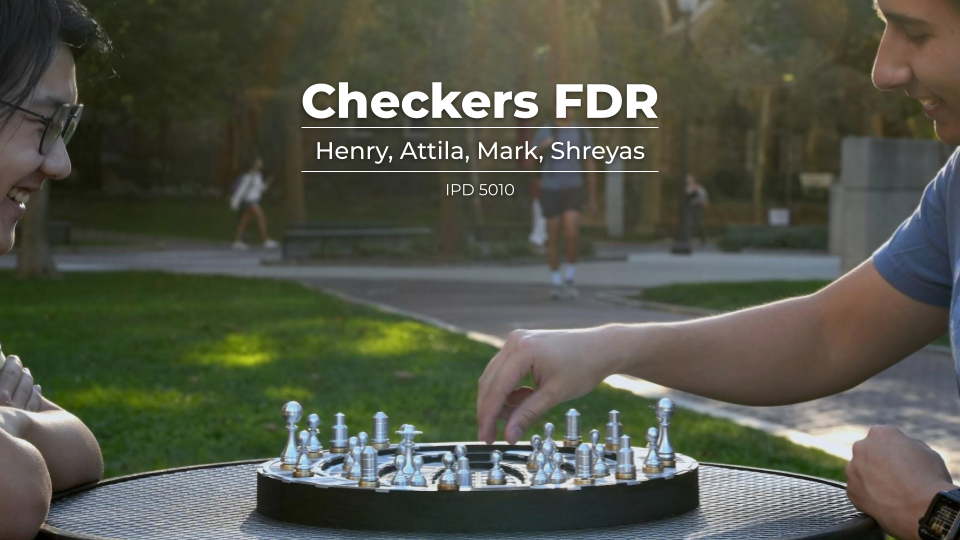
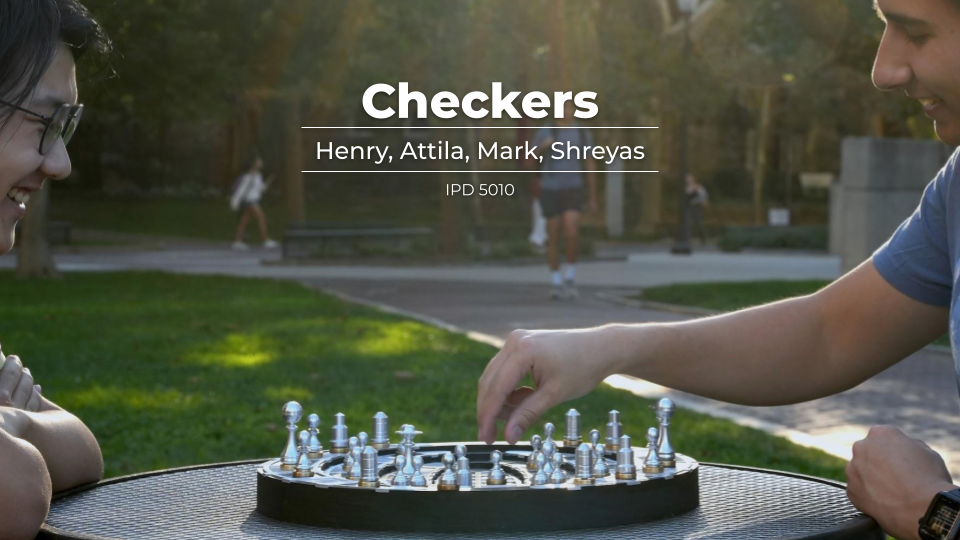
Polish hero collage interaction

Changed region(s): [[0.3125, 0.1481, 0.6875, 0.237]]

diff --git a/components/hero/PhotoWall.tsx b/components/hero/PhotoWall.tsx
@@ -2,6 +2,7 @@
 
 import Image from "next/image";
 import { useEffect, useRef, useState } from "react";
+import type { MouseEvent } from "react";
 import { AnimatePresence, motion, useReducedMotion } from "motion/react";
 import type { HeroTile } from "@/content/types";
 import { imageFill } from "@/lib/image";
@@ -15,7 +16,7 @@ const SLOT_PREF: Orient[] = [
   "portrait", // s1
   "square", // s2
   "landscape", // s3
-  "square", // s4
+  "landscape", // s4
   "landscape", // s5
   "landscape", // s6
   "portrait", // s7
@@ -49,7 +50,23 @@ export function PhotoWall({ tiles }: { tiles: HeroTile[] }) {
   const reduce = useReducedMotion();
   const [assignment, setAssignment] = useState<number[]>(() => initialAssignment(tiles));
   const [visibleCount, setVisibleCount] = useState(SLOT_COUNT);
+  const [activeSlot, setActiveSlot] = useState<number | null>(null);
   const tick = useRef(0);
+
+  const handlePointerMove = (event: MouseEvent<HTMLDivElement>) => {
+    if (reduce) return;
+
+    const rect = event.currentTarget.getBoundingClientRect();
+    const x = (event.clientX - rect.left) / rect.width;
+    const y = (event.clientY - rect.top) / rect.height;
+    const cropX = 50 + (x - 0.5) * 10;
+    const cropY = 50 + (y - 0.5) * 10;
+
+    event.currentTarget.style.setProperty("--crop-x", `${cropX}%`);
+    event.currentTarget.style.setProperty("--crop-y", `${cropY}%`);
+    event.currentTarget.style.setProperty("--pointer-x", `${x * 100}%`);
+    event.currentTarget.style.setProperty("--pointer-y", `${y * 100}%`);
+  };
 
   // Track how many slots are visible at the current breakpoint so we
   // only cycle photos into tiles the viewer can actually see.
@@ -92,19 +109,30 @@ export function PhotoWall({ tiles }: { tiles: HeroTile[] }) {
   }, [reduce, tiles, visibleCount]);
 
   return (
-    <div className="photo-wall">
+    <div className={activeSlot === null ? "photo-wall" : "photo-wall is-hovering"}>
       {Array.from({ length: SLOT_COUNT }, (_, slot) => {
         const tile = tiles[assignment[slot]];
         return (
           <div
             key={slot}
-            className={`wall-slot wall-slot-${slot}`}
+            className={`wall-slot wall-slot-${slot}${
+              activeSlot === slot ? " is-active" : ""
+            }${activeSlot !== null && activeSlot !== slot ? " is-neighbor" : ""}`}
             style={{ gridArea: `s${slot}` }}
+            onMouseEnter={() => setActiveSlot(slot)}
+            onMouseLeave={(event) => {
+              setActiveSlot(null);
+              event.currentTarget.style.removeProperty("--crop-x");
+              event.currentTarget.style.removeProperty("--crop-y");
+              event.currentTarget.style.removeProperty("--pointer-x");
+              event.currentTarget.style.removeProperty("--pointer-y");
+            }}
+            onMouseMove={handlePointerMove}
           >
             <AnimatePresence initial={false}>
               <motion.div
                 key={tile.id}
-                className="absolute inset-0"
+                className="wall-slot-media absolute inset-0"
                 initial={reduce ? false : { opacity: 0, scale: 1.06 }}
                 animate={{ opacity: 1, scale: 1 }}
                 exit={{ opacity: 0 }}
@@ -117,7 +145,7 @@ export function PhotoWall({ tiles }: { tiles: HeroTile[] }) {
                   {...imageFill(tile)}
                   fill
                   sizes="(max-width: 640px) 50vw, (max-width: 1024px) 50vw, 50vw"
-                  className="object-cover"
+                  className="wall-slot-image object-cover"
                   priority={slot < 6}
                 />
                 {tile.accent && (

diff --git a/app/globals.css b/app/globals.css
@@ -63,6 +63,7 @@ body {
   gap: 9px;
   width: 100%;
   height: 100%;
+  isolation: isolate;
   /* mobile: 2 cols */
   grid-template-columns: repeat(2, 1fr);
   grid-template-rows: repeat(6, 1fr);
@@ -105,10 +106,74 @@ body {
 }
 
 .wall-slot {
+  --crop-x: 50%;
+  --crop-y: 50%;
+  --pointer-x: 50%;
+  --pointer-y: 50%;
   position: relative;
   overflow: hidden;
   border-radius: 12px;
   background-color: var(--color-paper-2);
+  transform: translateZ(0) scale(1);
+  transform-origin: center;
+  transition:
+    transform 650ms cubic-bezier(0.22, 1, 0.36, 1),
+    box-shadow 650ms cubic-bezier(0.22, 1, 0.36, 1),
+    filter 650ms cubic-bezier(0.22, 1, 0.36, 1);
+  will-change: transform;
+}
+
+.wall-slot::after {
+  content: "";
+  position: absolute;
+  inset: 0;
+  z-index: 2;
+  pointer-events: none;
+  border-radius: inherit;
+  opacity: 0;
+  background:
+    radial-gradient(
+      circle at var(--pointer-x) var(--pointer-y),
+      rgb(255 255 255 / 0.18),
+      transparent 34%
+    ),
+    linear-gradient(rgb(255 255 255 / 0.1), rgb(255 255 255 / 0));
+  box-shadow: inset 0 0 0 1px rgb(255 255 255 / 0.22);
+  transition: opacity 550ms cubic-bezier(0.22, 1, 0.36, 1);
+}
+
+.wall-slot-media,
+.wall-slot-image {
+  transition:
+    transform 780ms cubic-bezier(0.22, 1, 0.36, 1),
+    object-position 780ms cubic-bezier(0.22, 1, 0.36, 1);
+}
+
+.wall-slot-image {
+  object-position: var(--crop-x) var(--crop-y);
+}
+
+@media (hover: hover) and (pointer: fine) {
+  .photo-wall.is-hovering .wall-slot.is-neighbor {
+    filter: saturate(0.96) brightness(0.98);
+    transform: translateZ(0) scale(0.992);
+  }
+
+  .photo-wall.is-hovering .wall-slot.is-active {
+    z-index: 4;
+    transform: translateZ(0) scale(1.045);
+    box-shadow:
+      0 22px 44px rgb(23 22 20 / 0.14),
+      0 4px 14px rgb(23 22 20 / 0.08);
+  }
+
+  .photo-wall.is-hovering .wall-slot.is-active::after {
+    opacity: 1;
+  }
+
+  .photo-wall.is-hovering .wall-slot.is-active .wall-slot-image {
+    transform: scale(1.035);
+  }
 }
 
 /* Hide overflow tiles below their breakpoint so the grid stays full. */
@@ -122,6 +187,23 @@ body {
 @media (max-width: 639px) {
   .wall-slot-6 {
     display: none;
+  }
+}
+
+@media (prefers-reduced-motion: reduce) {
+  .wall-slot,
+  .wall-slot::after,
+  .wall-slot-media,
+  .wall-slot-image {
+    transition: none;
+  }
+
+  .photo-wall.is-hovering .wall-slot,
+  .photo-wall.is-hovering .wall-slot.is-active,
+  .photo-wall.is-hovering .wall-slot.is-neighbor,
+  .photo-wall.is-hovering .wall-slot .wall-slot-media,
+  .photo-wall.is-hovering .wall-slot .wall-slot-image {
+    transform: none;
   }
 }
 

diff --git a/components/projects/ProjectList.tsx b/components/projects/ProjectList.tsx
@@ -24,29 +24,28 @@ export function ProjectList() {
       aria-label="Projects"
       className="mx-auto w-full max-w-6xl scroll-mt-24 px-6 py-16 sm:px-10 sm:py-20"
     >
-      <h2 className="font-display text-4xl font-semibold sm:text-5xl">
-        Projects<span className="text-accent">.</span>
-      </h2>
-
-      <div className="mt-6">
-        <ProjectIndex projects={featured} />
-      </div>
-
-      {/* See all work CTA — sits flush below the last list border */}
-      <div className="flex items-center justify-between border-b border-ink/15 py-6">
-        <span className="font-mono text-[11px] uppercase tracking-[0.14em] text-pencil">
-          {projects.length} projects total
-        </span>
+      <div className="flex items-end justify-between gap-6">
+        <h2 className="font-display text-4xl font-semibold sm:text-5xl">
+          Projects<span className="text-accent">.</span>
+        </h2>
         <Link
           href="/work"
-          className="group/link inline-flex items-center gap-2 font-mono text-[12px] uppercase tracking-[0.14em] text-ink transition-colors hover:text-accent"
-          onClick={() => posthog.capture("view_all_work_clicked", { total_projects: projects.length })}
+          className="group/link inline-flex items-center gap-2 pb-1 font-mono text-[12px] uppercase tracking-[0.14em] text-ink transition-colors hover:text-accent"
+          onClick={() =>
+            posthog.capture("view_all_work_clicked", {
+              total_projects: projects.length,
+            })
+          }
         >
           View all work
           <span className="inline-block transition-transform duration-200 group-hover/link:translate-x-0.5 group-hover/link:-translate-y-0.5">
             ↗
           </span>
         </Link>
+      </div>
+
+      <div className="mt-6">
+        <ProjectIndex projects={featured} />
       </div>
     </section>
   );

diff --git a/content/hero.ts b/content/hero.ts
@@ -45,6 +45,13 @@ export const heroTiles: HeroTile[] = [
     3277,
   ),
   tile(
+    "hero-pingu",
+    "/images/hero/pingu.JPG",
+    "Pingu prototype detail",
+    4000,
+    3545,
+  ),
+  tile(
     "hero-cnc",
     "/images/hero/cnc.jpg",
     "CNC fabrication detail",
@@ -62,8 +69,8 @@ export const heroTiles: HeroTile[] = [
     "hero-chakra",
     "/images/hero/chakra.PNG",
     "Machined chakra detail",
-    1080,
-    1080,
+    426,
+    538,
     true,
   ),
   tile(
